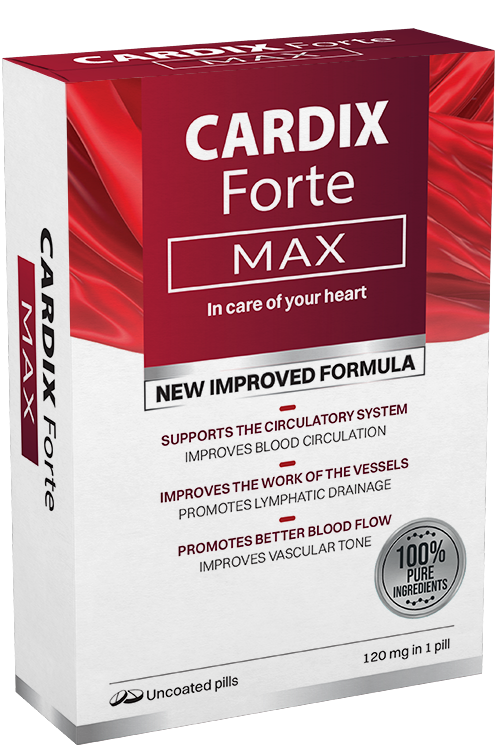
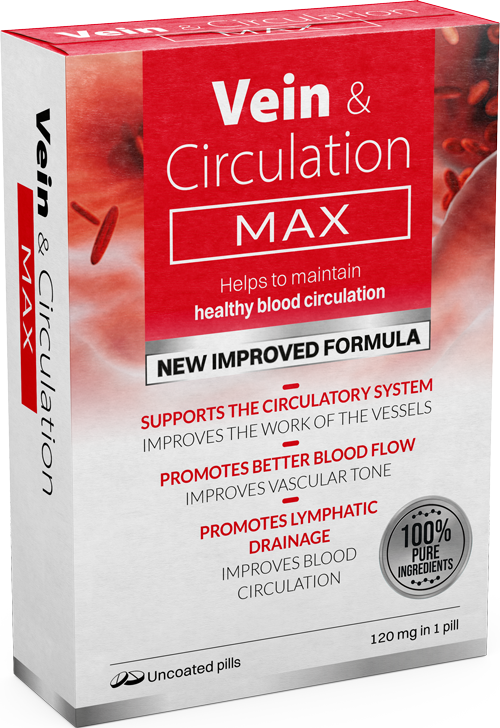
changing product image

diff --git a/index.html b/index.html
@@ -58,17 +58,17 @@
           </ul>
           <p class="paragraph">
             ...získajte balenie prípravku
-            <b>CARDIX FORTE MAX</b>, na ktoré máte nárok. Tento prípravok
+            <b>Vein&Circulation MAX</b>, na ktoré máte nárok. Tento prípravok
             spriechodňuje tepny, odstraňuje aterosklerotické pláty a zbaví Vás
             rizika infarktu, mŕtvice alebo amputácie končatín!
           </p>
           <div class="image-wrapper">
-            <img src="./assets/images/pic1.png" alt="hip-knee-back" />
+            <img src="./assets/images/pic1.jpg" alt="hip-knee-back" />
           </div>
           <p class="paragraph">
             Na sklade čaká pripravných na odoslanie 100 balení
-            <b>CARDIX FORTE MAX</b> vďaka ktorému odblokujete tepny, obnovíte
-            správne fungovanie krvného obehu, zlepšíte činnosť srdca, a
+            <b>Vein&Circulation MAX</b> vďaka ktorému odblokujete tepny,
+            obnovíte správne fungovanie krvného obehu, zlepšíte činnosť srdca, a
             predovšetkým raz a navždy zlepšíte svoj obehový systém. Rozdáme ich
             <b>ÚPLNE ZADARMO</b> - na princípe „kto skôr príde, ten skôr melie”
             – každému, kto zavolá <b> do <span class="current-date"></span></b>.
@@ -79,13 +79,13 @@
           </div>
           <div class="green-box">
             <p class="main-subtitle text-bold">
-              Kardioaktívny spriechodňovač upchatých žíl a tepien CARDIX FORTE
-              MAX pôsobí priamo zvnútra na Váš obehový systém. Spriechodňuje
-              tepny, odbúrava usadeniny cholesterolu a toxíny a následne ich
-              vylučuje z organizmu, pričom regeneruje a úplne obnovuje poškodené
-              cievy. Vďaka tomu sa zlepšuje práca srdca a taktiež prekrvenie
-              končatín. Riziko srdcového infarktu, mozgovej mŕtvice, či
-              amputácie klesá takmer na nulu.
+              Kardioaktívny spriechodňovač upchatých žíl a tepien
+              Vein&Circulation MAX pôsobí priamo zvnútra na Váš obehový systém.
+              Spriechodňuje tepny, odbúrava usadeniny cholesterolu a toxíny a
+              následne ich vylučuje z organizmu, pričom regeneruje a úplne
+              obnovuje poškodené cievy. Vďaka tomu sa zlepšuje práca srdca a
+              taktiež prekrvenie končatín. Riziko srdcového infarktu, mozgovej
+              mŕtvice, či amputácie klesá takmer na nulu.
             </p>
           </div>
           <p class="paragraph">
@@ -161,7 +161,7 @@
           </div>
           <p class="main-subtitle text-center">
             Prečo rozdávame kardioaktívny prípravok na spriechodnenie upchatých
-            žíl a tepien CARDIX FORTE MAX úplne ZADARMO?
+            žíl a tepien Vein&Circulation MAX úplne ZADARMO?
           </p>
           <p class="paragraph">
             Nie sme charitatívnou organizáciou. Očakávame, že táto propagačná

diff --git a/assets/js/comments-arr.js b/assets/js/comments-arr.js
@@ -90,7 +90,7 @@ const commentsArray = [
     avatar: "avatar.png",
     text: "Manželka mi to objednala, lebo lekár mal u mňa podozrenie na aterosklerózu. Po užívaní tohto prípravku sa všetko vrátilo do normálu. Ešte sme dokonca obdržali balenie zdarma.",
     timestamp: "1 dzień temu",
-    pictures: "zdj1.jpg",
+    pictures: "testimony1.jpg",
     time: generateDateBefore(2, "comment"),
   },
   {
@@ -106,7 +106,7 @@ const commentsArray = [
     author: "Jana Žiaková",
     avatar: "avatar.png",
     text: "Úžasný prípravok, vrelo odporúčam.",
-    pictures: "zdj2.jpg",
+    pictures: "testimony2.jpg",
     time: generateDateBefore(2, "comment"),
   },
   {
@@ -115,7 +115,7 @@ const commentsArray = [
     avatar: "avatar.png",
     text: "Vrelo odporúčam. Rýchle dodanie a rýchle účinky. ",
     timestamp: "2 dni temu",
-    pictures: "zdj3.jpg",
+    pictures: "testimony3.jpg",
     time: generateDateBefore(0, "comment"),
   },
 ];

diff --git a/summary/index.html b/summary/index.html
@@ -32,7 +32,7 @@
         <h2 class="summary-title">GRATULUJEME!</h2>
         <p class="main-subtitle text-center">
           <b>NEČAKAJTE!</b> Ako jeden zo 100 šťastlivcov máte neopakovateľnú
-          príležitosť využiť kúru CARDIX FORTE MAX
+          príležitosť využiť kúru Vein&Circulation MAX
           <span class="text-red text-bold line-through"
             ><span class="product-price"></span> EUR
           </span>
@@ -44,7 +44,7 @@
           prvých osôb!
         </p>
         <p class="paragraph">
-          Kardioaktívny spriechodňovač žíl a tepien CARDIX FORTE MAX, ktorý
+          Kardioaktívny spriechodňovač žíl a tepien Vein&Circulation MAX, ktorý
           komplexne regeneruje a obnovuje obehový systém vďaka spriechodneniu
           tepien a navráteniu elasticity a správnej priepustnosti krvných ciev,
           nebude dostupný v žiadnych špecializovaných predajniach ani lekárňach
